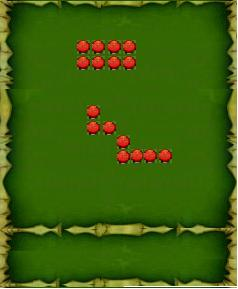
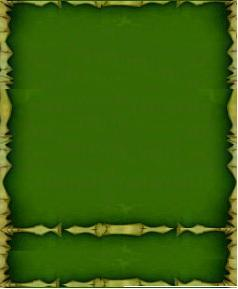
imagenes

Changed region(s): [[0.3529, 0.3426, 0.7353, 0.5917], [0.2941, 0.1246, 0.5882, 0.2491]]

diff --git a/JuanecoSW/src/Snake/Escenario.java b/JuanecoSW/src/Snake/Escenario.java
@@ -66,8 +66,30 @@ public class Escenario {
                 posx[i] = (8 + 16 * i);
                 posy[j] = 16 + 16 * j;
                 posesc[i][j] = 0;
+
             }
         }
+    }
+
+    public void inicializa() {
+
+        try {
+            if (nivel == 0) {
+                this.setFondo(SnakeUtil.createImage("/fondoGame.jpg"));
+            } else if (nivel == 1) {
+                this.setFondo(SnakeUtil.createImage("/costa.jpg"));
+                this.obsta1.inicializar(1, posesc);
+            } else if (nivel == 2) {
+                this.setFondo(SnakeUtil.createImage("/sierra.jpg"));
+                this.obsta1.inicializar(2, posesc);
+            } else if (nivel == 3) {
+                this.setFondo(SnakeUtil.createImage("/selva.jpg"));
+                this.obsta1.inicializar(3, posesc);
+            } else if (nivel == 4) {
+                this.setFondo(SnakeUtil.createImage("/selva.jpg"));
+
+            }
+        } catch(Exception e){}
 
         posesc[8][8] = 1;   /*La posicion i=8, j=8 es la cabeza*/
         agregaTronco(8, 9, 3); // Aumenta la cola
